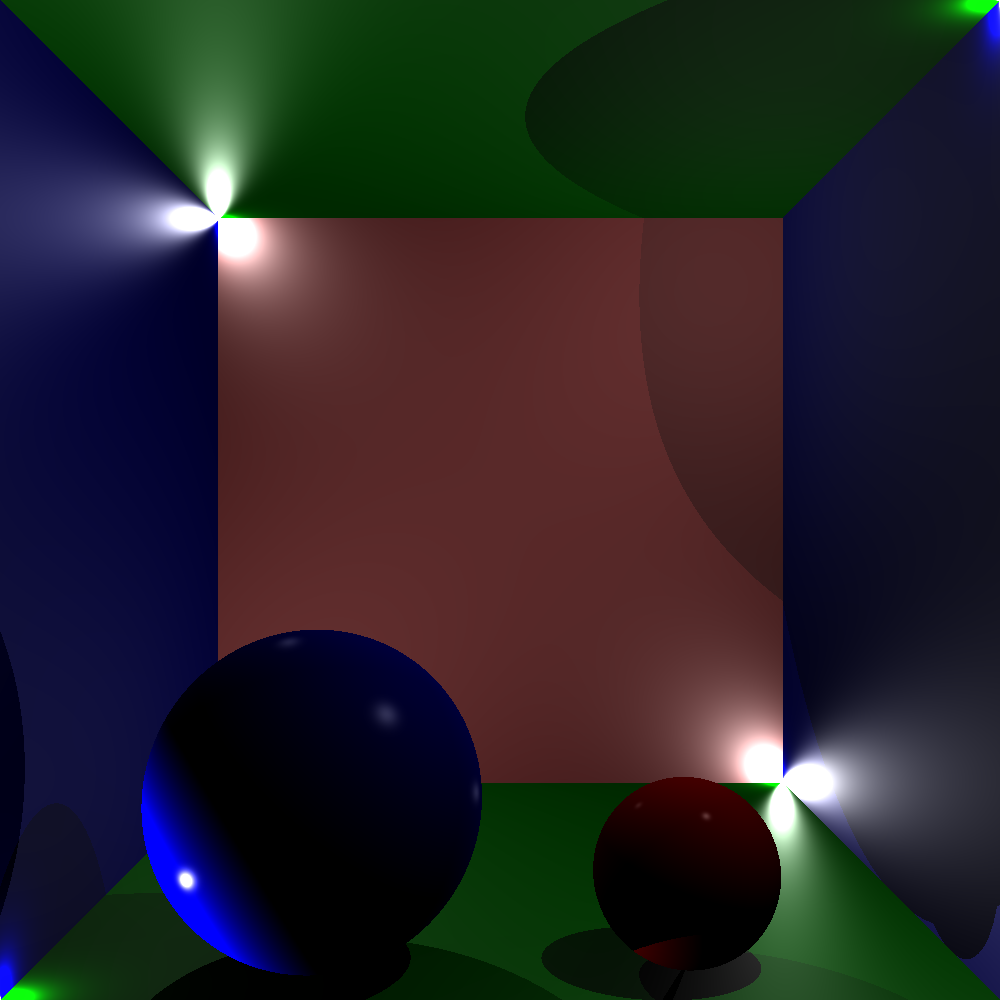
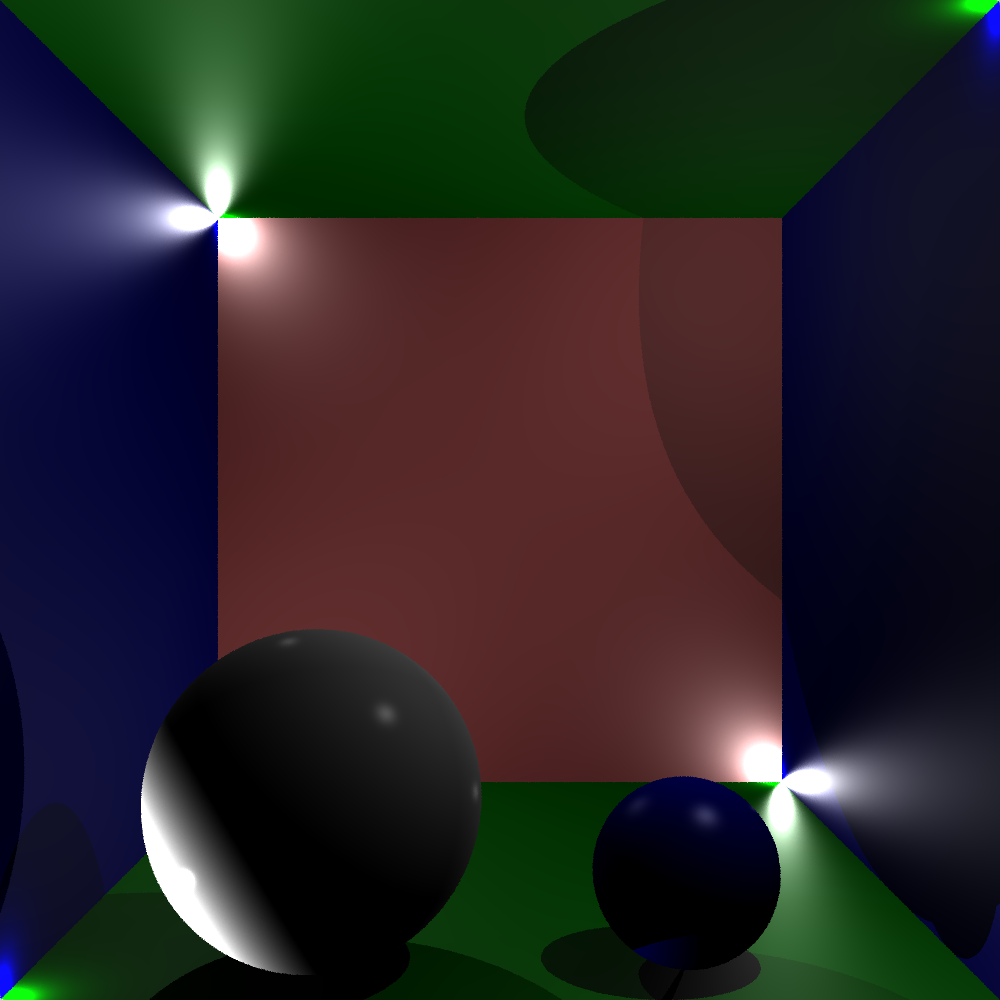
shadows + anti-aliasing

diff --git a/src/tracer/Main.java b/src/tracer/Main.java
@@ -28,17 +28,17 @@ public class Main {
         Scene scene = new Scene(ambient);
         scene.addPlane(new Vector(0,0,1000), new Vector(1,0,0),new Vector(1,1,1),0,0, 10, new Vector(0,0,-1)); // back
         scene.addPlane(new Vector(0,-500,0), new Vector(0,1,0),new Vector(1,1,1),0,0, 10, new Vector(0,1,0)); // floor
-        scene.addPlane(new Vector(500,0,0), new Vector(0,0,1),new Vector(1,1,1),0,0, 5, new Vector(-1,0,0)); // RHS wall
+        scene.addPlane(new Vector(500,0,0), new Vector(0,0,1),new Vector(1,1,1),0,0, 10, new Vector(-1,0,0)); // RHS wall
         scene.addPlane(new Vector(-500,0,0), new Vector(0,0,1),new Vector(1,1,1),0,0, 10, new Vector(1,0,0)); // LHS wall
         scene.addPlane(new Vector(0,500,0), new Vector(0,1,0),new Vector(1,1,1),0,0, 10, new Vector(0,-1,0)); // ceiling
-        scene.addSphere(new Vector(200,-400,100), new Vector(1,0,0), new Vector(1,1,1),0,0, 1000, 100);
-        scene.addSphere(new Vector(-200,-320,100), new Vector(0,0,1), new Vector(1,1,1),0,0, 300, 180);
+        scene.addSphere(new Vector(200,-400,100), new Vector(0,0,1), new Vector(1,1,1),0,0, 100, 100);
+        scene.addSphere(new Vector(-200,-320,100), new Vector(1,1,1), new Vector(1,1,1),0,0, 400, 180);
         scene.addLight(new Vector(-499,499,999), new RGB(1,1,1), new RGB(1,1,1));
         scene.addLight(new Vector(499,-499,999), new RGB(1,1,1), new RGB(1,1,1));
         scene.addLight(new Vector(-499,-499,0), new RGB(1,1,1), new RGB(1,1,1));
         scene.addLight(new Vector(499,499,0), new RGB(1,1,1), new RGB(1,1,1));
         Tracer tracer = new Tracer(renderer);
-        tracer.traceImage(scene);
+        tracer.traceImage(scene, 3);
        
         double[] image = renderer.getImage();
         System.out.println(Arrays.toString(image));

diff --git a/src/tracer/Tracer.java b/src/tracer/Tracer.java
@@ -1,7 +1,9 @@
 package tracer;
 
 import entities.Entity;
+import java.awt.Color;
 import java.util.ArrayList;
+import java.util.Random;
 
 /**
  *
@@ -16,12 +18,27 @@ public class Tracer {
         camera = new Camera();
     }
     
-    public Renderer traceImage(Scene scene){
+    public Renderer traceImage(Scene scene, int samplesPerPixel){
         int[] imageDimensions = renderer.getDimensions();
+        Random random = new Random(); // for anti-aliasing
         for(int i=0; i<imageDimensions[0];i++){
             for (int j = 0; j < imageDimensions[1]; j++) {
-                Ray ray = camera.rayForPixel(i, j);
-                renderer.paintPixel(new int[]{i,j}, traceRay(ray, scene));
+                RGB pixelColor = new RGB(0,0,0);
+
+            // Apply multiple samples per pixel for anti-aliasing
+                for (int s = 0; s < samplesPerPixel; s++) {
+                    // Generate random offsets for each sample
+                    double offsetX = random.nextDouble();
+                    double offsetY = random.nextDouble();
+
+                    // Use the offset to create a jittered ray
+                    Ray ray = camera.rayForPixel(i + offsetX, j + offsetY);
+
+                    // Accumulate color for each sample
+                    pixelColor = pixelColor.addNoLimit(traceRay(ray, scene));
+                }
+                pixelColor = pixelColor.divide(samplesPerPixel);
+                renderer.paintPixel(new int[]{i,j}, pixelColor);
             }
         }
         return renderer;

diff --git a/src/tracer/RGB.java b/src/tracer/RGB.java
@@ -43,6 +43,13 @@ public class RGB {
         return new RGB(r, g , b);
     }
     
+    public RGB addNoLimit(RGB colour){
+        double r = RED+colour.RED;
+        double g = GREEN+colour.GREEN;
+        double b = BLUE+colour.BLUE;
+        return new RGB(r, g , b);
+    }
+    
     public RGB multiply(Vector colour){
         double r = Math.max(0,Math.min(RED*colour.getX(), 1));
         double g = Math.max(0,Math.min(GREEN*colour.getY(), 1));
@@ -50,9 +57,15 @@ public class RGB {
         return new RGB(r, g , b);
     }
     
+    public RGB divide(int samplesPerPixel) {
+        return new RGB(RED/samplesPerPixel, GREEN/samplesPerPixel, BLUE/samplesPerPixel);
+    }
+    
     
     @Override
     public String toString(){
         return RED + ", " + GREEN + ", " + BLUE;
     }
+
+    
 }

diff --git a/src/tracer/Camera.java b/src/tracer/Camera.java
@@ -20,7 +20,7 @@ public class Camera {
     }
 
     
-    public Ray rayForPixel(int row, int column){ // image coordinates
+    public Ray rayForPixel(double row, double column){ // image coordinates
         Vector worldPixelCoordinate = imageToWorldCoordinates(new double[]{row, column});
         return new Ray(position, worldPixelCoordinate.addVector(position.scale(-1)).normalise(1));
     }
